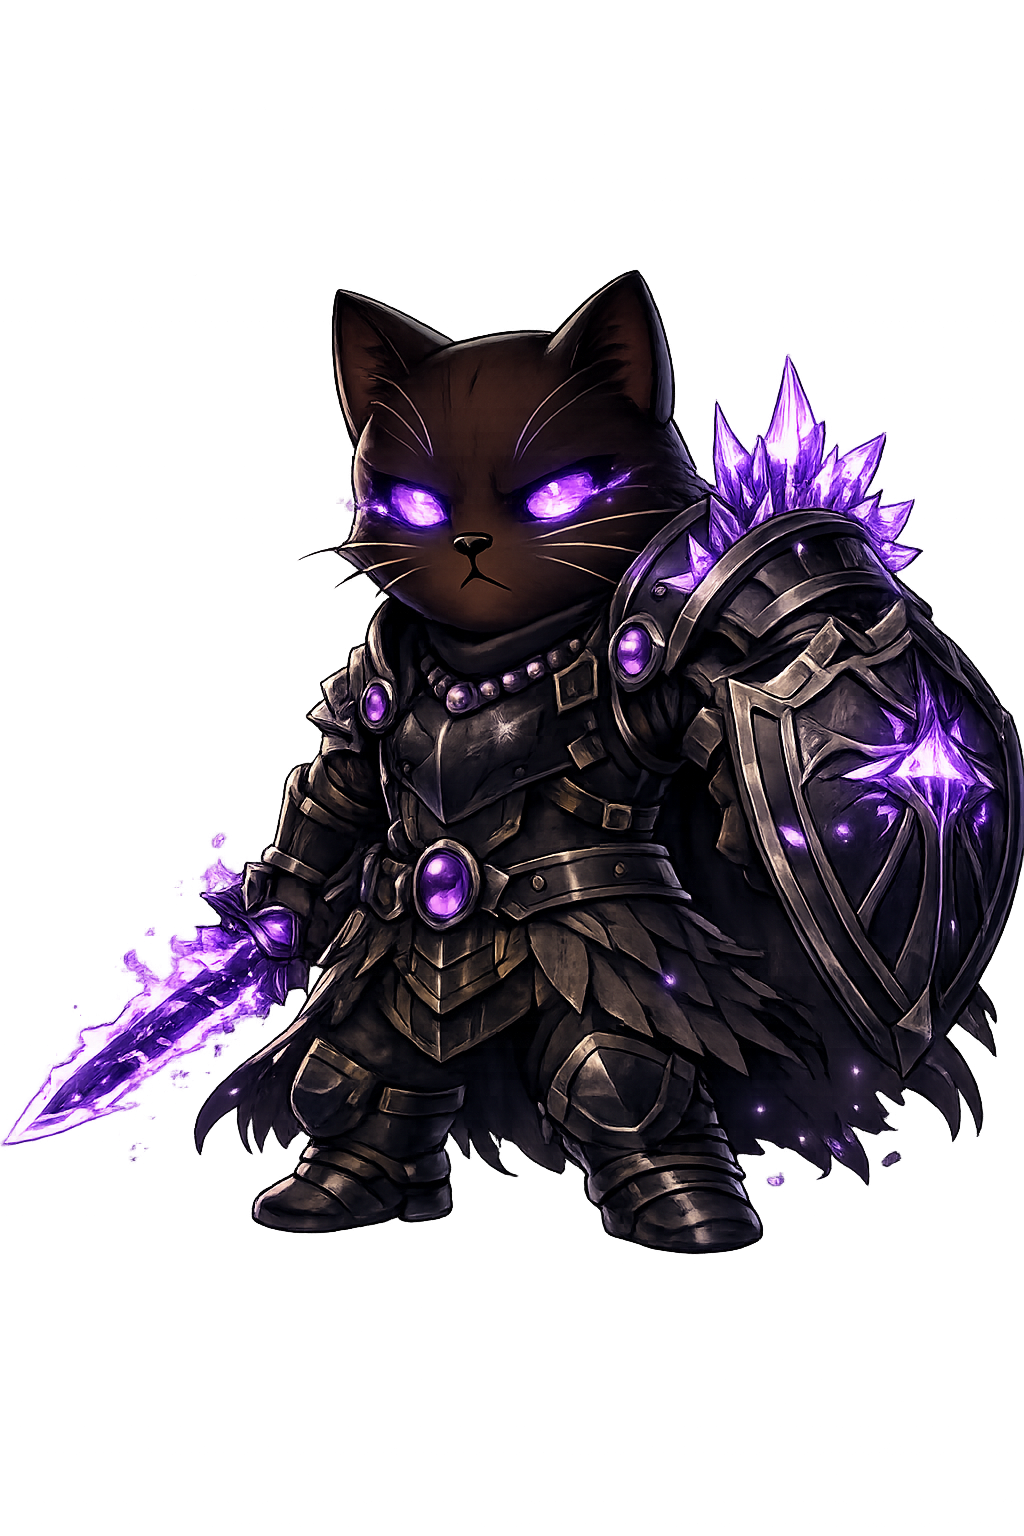
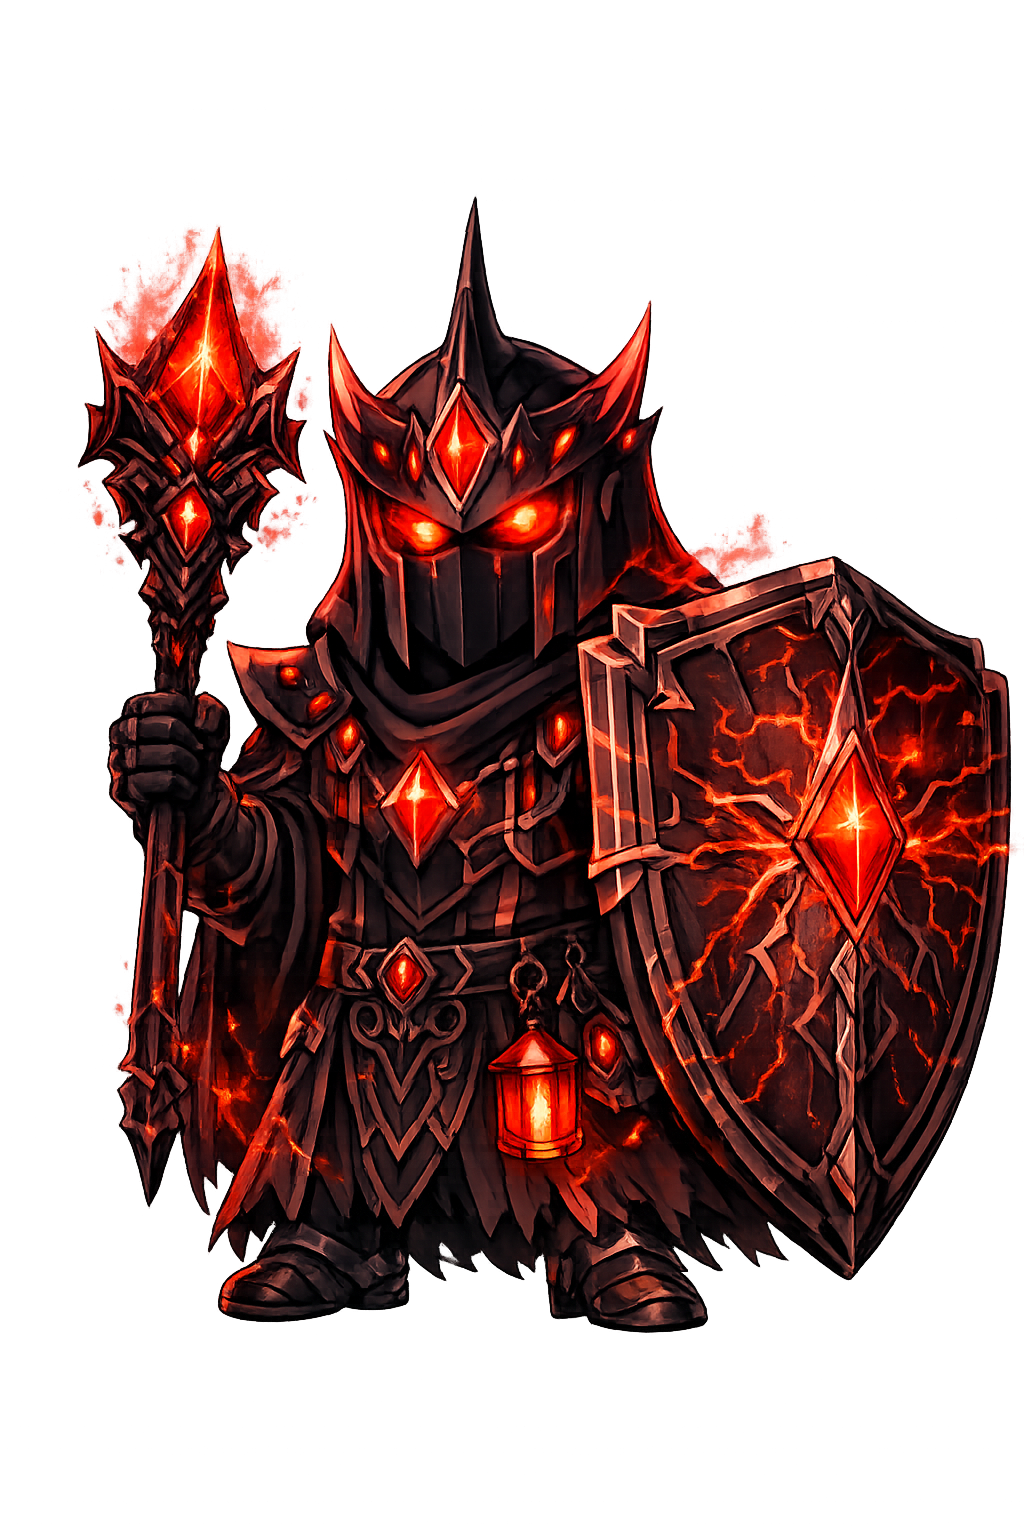
fix isolation boss visuals and add missing bosses

diff --git a/src/game/stages.ts b/src/game/stages.ts
@@ -9,7 +9,7 @@ export type BossType =
   | 'boar' | 'goblin' | 'bear' | 'giant-scorpion' | 'wyvern' | 'rock-golem'
   | 'security-drone-chief' | 'rampant-experiment' | 'black-noise-roku'
   | 'bay-guardian' | 'mist-leviathan' | 'leviathan'
-  | 'dark-rockel' | 'dark-player' | 'dark-deli' | 'dark-yabuko' | 'dark-ushimaru' | 'dark-hibiki'
+  | 'dark-rockel' | 'dark-player' | 'dark-deli' | 'dark-yabuko' | 'dark-tsutsu' | 'dark-ushimaru' | 'dark-hibiki' | 'dark-socho'
   | 'dark-nanaichi' | 'dark-rokudo' | 'dark-myoo' | 'author-rokudo';
 
 export type StageDifficulty = 'low' | 'medium' | 'high';
@@ -24,6 +24,25 @@ export type StageDefinition = {
 };
 
 export type StageAreaDefinition = { id: StageAreaId; name: string; description: string; stages: StageDefinition[] };
+
+type IsolationBossType = Extract<BossType, `dark-${string}` | 'author-rokudo'>;
+
+// Keep every visual and display name keyed by the boss ID.  The rush used to
+// depend on asset copy order, which made the name, portrait, and sprite drift.
+export const ISOLATION_BOSSES: Record<IsolationBossType, RushBossDefinition> = {
+  'dark-rockel': { bossName: '闇ROCKEL', bossType: 'dark-rockel', bossImage: '/assets/tcg/boss-dark-rockel.png', bossHp: 86, bossRadius: 54 },
+  'dark-player': { bossName: '闇Player', bossType: 'dark-player', bossImage: '/assets/tcg/boss-dark-player.png', bossHp: 76, bossRadius: 52 },
+  'dark-deli': { bossName: '闇Deli', bossType: 'dark-deli', bossImage: '/assets/tcg/boss-dark-deli.png', bossHp: 90, bossRadius: 54 },
+  'dark-yabuko': { bossName: '闇やぶこ', bossType: 'dark-yabuko', bossImage: '/assets/tcg/boss-dark-yabuko.png', bossHp: 96, bossRadius: 56 },
+  'dark-tsutsu': { bossName: '闇つつ', bossType: 'dark-tsutsu', bossImage: '/assets/tcg/boss-dark-tsutsu.png', bossHp: 82, bossRadius: 52 },
+  'dark-ushimaru': { bossName: '闇うしまる', bossType: 'dark-ushimaru', bossImage: '/assets/tcg/boss-dark-ushimaru.png', bossHp: 100, bossRadius: 54 },
+  'dark-hibiki': { bossName: '闇hibiki', bossType: 'dark-hibiki', bossImage: '/assets/tcg/boss-dark-hibiki.png', bossHp: 118, bossRadius: 56 },
+  'dark-socho': { bossName: '闇総長', bossType: 'dark-socho', bossImage: '/assets/tcg/boss-dark-socho.png', bossHp: 108, bossRadius: 54 },
+  'dark-nanaichi': { bossName: '闇7171', bossType: 'dark-nanaichi', bossImage: '/assets/tcg/boss-dark-nanaichi.png', bossHp: 96, bossRadius: 54 },
+  'dark-rokudo': { bossName: '闇ROKUDO', bossType: 'dark-rokudo', bossImage: '/assets/tcg/boss-dark-rokudo.png', bossHp: 108, bossRadius: 54 },
+  'dark-myoo': { bossName: '闇明王', bossType: 'dark-myoo', bossImage: '/assets/tcg/boss-dark-myoo.png', bossHp: 122, bossRadius: 56 },
+  'author-rokudo': { bossName: '作者ロクド', bossType: 'author-rokudo', bossImage: '/assets/tcg/boss-author-rokudo.png', bossHp: 210, bossRadius: 66 },
+};
 
 export const ASTORIA_GRASSLAND_STAGES: StageDefinition[] = [
   { id: 'astoria-grassland-1', areaId: 'astoria-grassland', name: 'アストリア草原 1', bossName: '猪', bossType: 'boar', bossImage: '/assets/tcg/enemy-boar.png', difficulty: 'low', difficultyLabel: '低', clearBonus: 10, bossHp: 24, bossRadius: 48 },
@@ -50,28 +69,30 @@ export const BLACK_NOISE_BAY_STAGES: StageDefinition[] = [
 ];
 
 export const ISOLATION_ZONE_STAGES: StageDefinition[] = [
-  { id: 'isolation-zone-1', areaId: 'isolation-zone', name: '隔離地域 1', bossName: '闇ROCKEL', bossType: 'dark-rockel', bossImage: '/assets/tcg/boss-dark-rockel.png', difficulty: 'high', difficultyLabel: '異常', clearBonus: 150, bossHp: 86, bossRadius: 54,
+  { id: 'isolation-zone-1', areaId: 'isolation-zone', name: '隔離地域 1', ...ISOLATION_BOSSES['dark-rockel'], difficulty: 'high', difficultyLabel: '異常', clearBonus: 150,
     bossRush: [
-      { bossName: '闇ROCKEL', bossType: 'dark-rockel', bossImage: '/assets/tcg/boss-dark-rockel.png', bossHp: 86, bossRadius: 54 },
-      { bossName: '闇Player', bossType: 'dark-player', bossImage: '/assets/tcg/boss-dark-player.png', bossHp: 76, bossRadius: 52 },
+      ISOLATION_BOSSES['dark-rockel'],
+      ISOLATION_BOSSES['dark-player'],
     ] },
-  { id: 'isolation-zone-2', areaId: 'isolation-zone', name: '隔離地域 2', bossName: '闇Deli', bossType: 'dark-deli', bossImage: '/assets/tcg/boss-dark-deli.png', difficulty: 'high', difficultyLabel: '異常', clearBonus: 175, bossHp: 90, bossRadius: 54,
+  { id: 'isolation-zone-2', areaId: 'isolation-zone', name: '隔離地域 2', ...ISOLATION_BOSSES['dark-deli'], difficulty: 'high', difficultyLabel: '異常', clearBonus: 175,
     bossRush: [
-      { bossName: '闇Deli', bossType: 'dark-deli', bossImage: '/assets/tcg/boss-dark-deli.png', bossHp: 90, bossRadius: 54 },
-      { bossName: '闇やぶこ', bossType: 'dark-yabuko', bossImage: '/assets/tcg/boss-dark-yabuko.png', bossHp: 96, bossRadius: 56 },
+      ISOLATION_BOSSES['dark-deli'],
+      ISOLATION_BOSSES['dark-yabuko'],
+      ISOLATION_BOSSES['dark-tsutsu'],
     ] },
-  { id: 'isolation-zone-3', areaId: 'isolation-zone', name: '隔離地域 3', bossName: '闇うしまる', bossType: 'dark-ushimaru', bossImage: '/assets/tcg/boss-dark-ushimaru.png', difficulty: 'high', difficultyLabel: '異常', clearBonus: 200, bossHp: 100, bossRadius: 54,
+  { id: 'isolation-zone-3', areaId: 'isolation-zone', name: '隔離地域 3', ...ISOLATION_BOSSES['dark-ushimaru'], difficulty: 'high', difficultyLabel: '異常', clearBonus: 200,
     bossRush: [
-      { bossName: '闇うしまる', bossType: 'dark-ushimaru', bossImage: '/assets/tcg/boss-dark-ushimaru.png', bossHp: 100, bossRadius: 54 },
-      { bossName: '闇hibiki', bossType: 'dark-hibiki', bossImage: '/assets/tcg/boss-dark-hibiki.png', bossHp: 118, bossRadius: 56 },
+      ISOLATION_BOSSES['dark-ushimaru'],
+      ISOLATION_BOSSES['dark-hibiki'],
+      ISOLATION_BOSSES['dark-socho'],
     ] },
-  { id: 'isolation-zone-4', areaId: 'isolation-zone', name: '隔離地域 4', bossName: '闇7171', bossType: 'dark-nanaichi', bossImage: '/assets/tcg/boss-dark-nanaichi.png', difficulty: 'high', difficultyLabel: '異常', clearBonus: 240, bossHp: 96, bossRadius: 54,
+  { id: 'isolation-zone-4', areaId: 'isolation-zone', name: '隔離地域 4', ...ISOLATION_BOSSES['dark-nanaichi'], difficulty: 'high', difficultyLabel: '異常', clearBonus: 240,
     bossRush: [
-      { bossName: '闇7171', bossType: 'dark-nanaichi', bossImage: '/assets/tcg/boss-dark-nanaichi.png', bossHp: 96, bossRadius: 54 },
-      { bossName: '闇ROKUDO', bossType: 'dark-rokudo', bossImage: '/assets/tcg/boss-dark-rokudo.png', bossHp: 108, bossRadius: 54 },
-      { bossName: '闇明王', bossType: 'dark-myoo', bossImage: '/assets/tcg/boss-dark-myoo.png', bossHp: 122, bossRadius: 56 },
+      ISOLATION_BOSSES['dark-nanaichi'],
+      ISOLATION_BOSSES['dark-rokudo'],
+      ISOLATION_BOSSES['dark-myoo'],
     ] },
-  { id: 'isolation-zone-5', areaId: 'isolation-zone', name: '隔離地域 5', bossName: '作者ロクド', bossType: 'author-rokudo', bossImage: '/assets/tcg/boss-author-rokudo.png', difficulty: 'high', difficultyLabel: '最終', clearBonus: 300, bossHp: 210, bossRadius: 66 },
+  { id: 'isolation-zone-5', areaId: 'isolation-zone', name: '隔離地域 5', ...ISOLATION_BOSSES['author-rokudo'], difficulty: 'high', difficultyLabel: '最終', clearBonus: 300 },
 ];
 
 export const STAGE_AREAS: StageAreaDefinition[] = [

diff --git a/src/game/logic.ts b/src/game/logic.ts
@@ -699,6 +699,13 @@ function updateBoss(state: GameState, dt: number): GameState {
     boss = { ...boss, shotTimer: 1.58 };
   }
 
+  if (boss.shotTimer <= 0 && boss.type === 'dark-tsutsu') {
+    const arrows = createBossSpreadBullets(boss, nextId, [-0.52, 0, 0.52], 108, 198, 6);
+    nextId += arrows.length;
+    bullets = [...bullets, ...arrows];
+    boss = { ...boss, shotTimer: 1.06 };
+  }
+
   if (boss.shotTimer <= 0 && boss.type === 'dark-ushimaru') {
     const direction = normalize({ x: state.player.x - boss.x, y: state.player.y - boss.y });
     bullets = [...bullets, { id: nextId++, x: boss.x, y: boss.y + boss.radius * 0.7, vx: direction.x * 158, vy: Math.max(240, direction.y * 278), radius: 8 }, { id: nextId++, x: boss.x, y: boss.y + boss.radius * 0.66, vx: direction.x * 96 - 42, vy: Math.max(194, direction.y * 230), radius: 5 }, { id: nextId++, x: boss.x, y: boss.y + boss.radius * 0.66, vx: direction.x * 96 + 42, vy: Math.max(194, direction.y * 230), radius: 5 }];
@@ -710,6 +717,13 @@ function updateBoss(state: GameState, dt: number): GameState {
     nextId += newBullets.length;
     bullets = [...bullets, ...newBullets];
     boss = { ...boss, shotTimer: 1.5 };
+  }
+
+  if (boss.shotTimer <= 0 && boss.type === 'dark-socho') {
+    const slashWaves = createBossSpreadBullets(boss, nextId, [-0.7, -0.35, 0, 0.35, 0.7], 76, 170, 8);
+    nextId += slashWaves.length;
+    bullets = [...bullets, ...slashWaves];
+    boss = { ...boss, shotTimer: 1.24 };
   }
 
   if (boss.shotTimer <= 0 && boss.type === 'dark-nanaichi') {
@@ -861,6 +875,9 @@ function getBossPosition(boss: Boss, player: Player, elapsed: number): Vector {
   if (boss.type === 'dark-yabuko') {
     return { x: centerX + Math.sin(phase * 0.68) * 64, y: upperY + 28 + Math.sin(phase * 1.25) * 32 };
   }
+  if (boss.type === 'dark-tsutsu') {
+    return { x: centerX + Math.sin(phase * 0.88) * 88, y: upperY + 6 + Math.cos(phase * 1.12) * 14 };
+  }
   if (boss.type === 'dark-ushimaru') {
     const targetX = clamp(player.x, 88, FIELD_WIDTH - 88);
     const lunge = Math.max(0, Math.sin(phase * 0.95));
@@ -868,6 +885,9 @@ function getBossPosition(boss: Boss, player: Player, elapsed: number): Vector {
   }
   if (boss.type === 'dark-hibiki') {
     return { x: centerX + Math.sin(phase * 0.42) * 32, y: upperY + Math.max(0, Math.sin(phase * 0.7)) * 22 };
+  }
+  if (boss.type === 'dark-socho') {
+    return { x: centerX + Math.sin(phase * 0.58) * 52, y: upperY + 14 + Math.sin(phase * 1.16) * 16 };
   }
   if (boss.type === 'dark-nanaichi') {
     return { x: centerX + Math.sin(phase * 0.72) * 76, y: upperY + 18 + Math.cos(phase * 0.72) * 28 };

diff --git a/src/App.css b/src/App.css
@@ -3226,8 +3226,10 @@ body.game-touch-lock .field {
 .boss-dark-player,
 .boss-dark-deli,
 .boss-dark-yabuko,
+.boss-dark-tsutsu,
 .boss-dark-ushimaru,
 .boss-dark-hibiki,
+.boss-dark-socho,
 .boss-dark-nanaichi,
 .boss-dark-rokudo,
 .boss-dark-myoo {